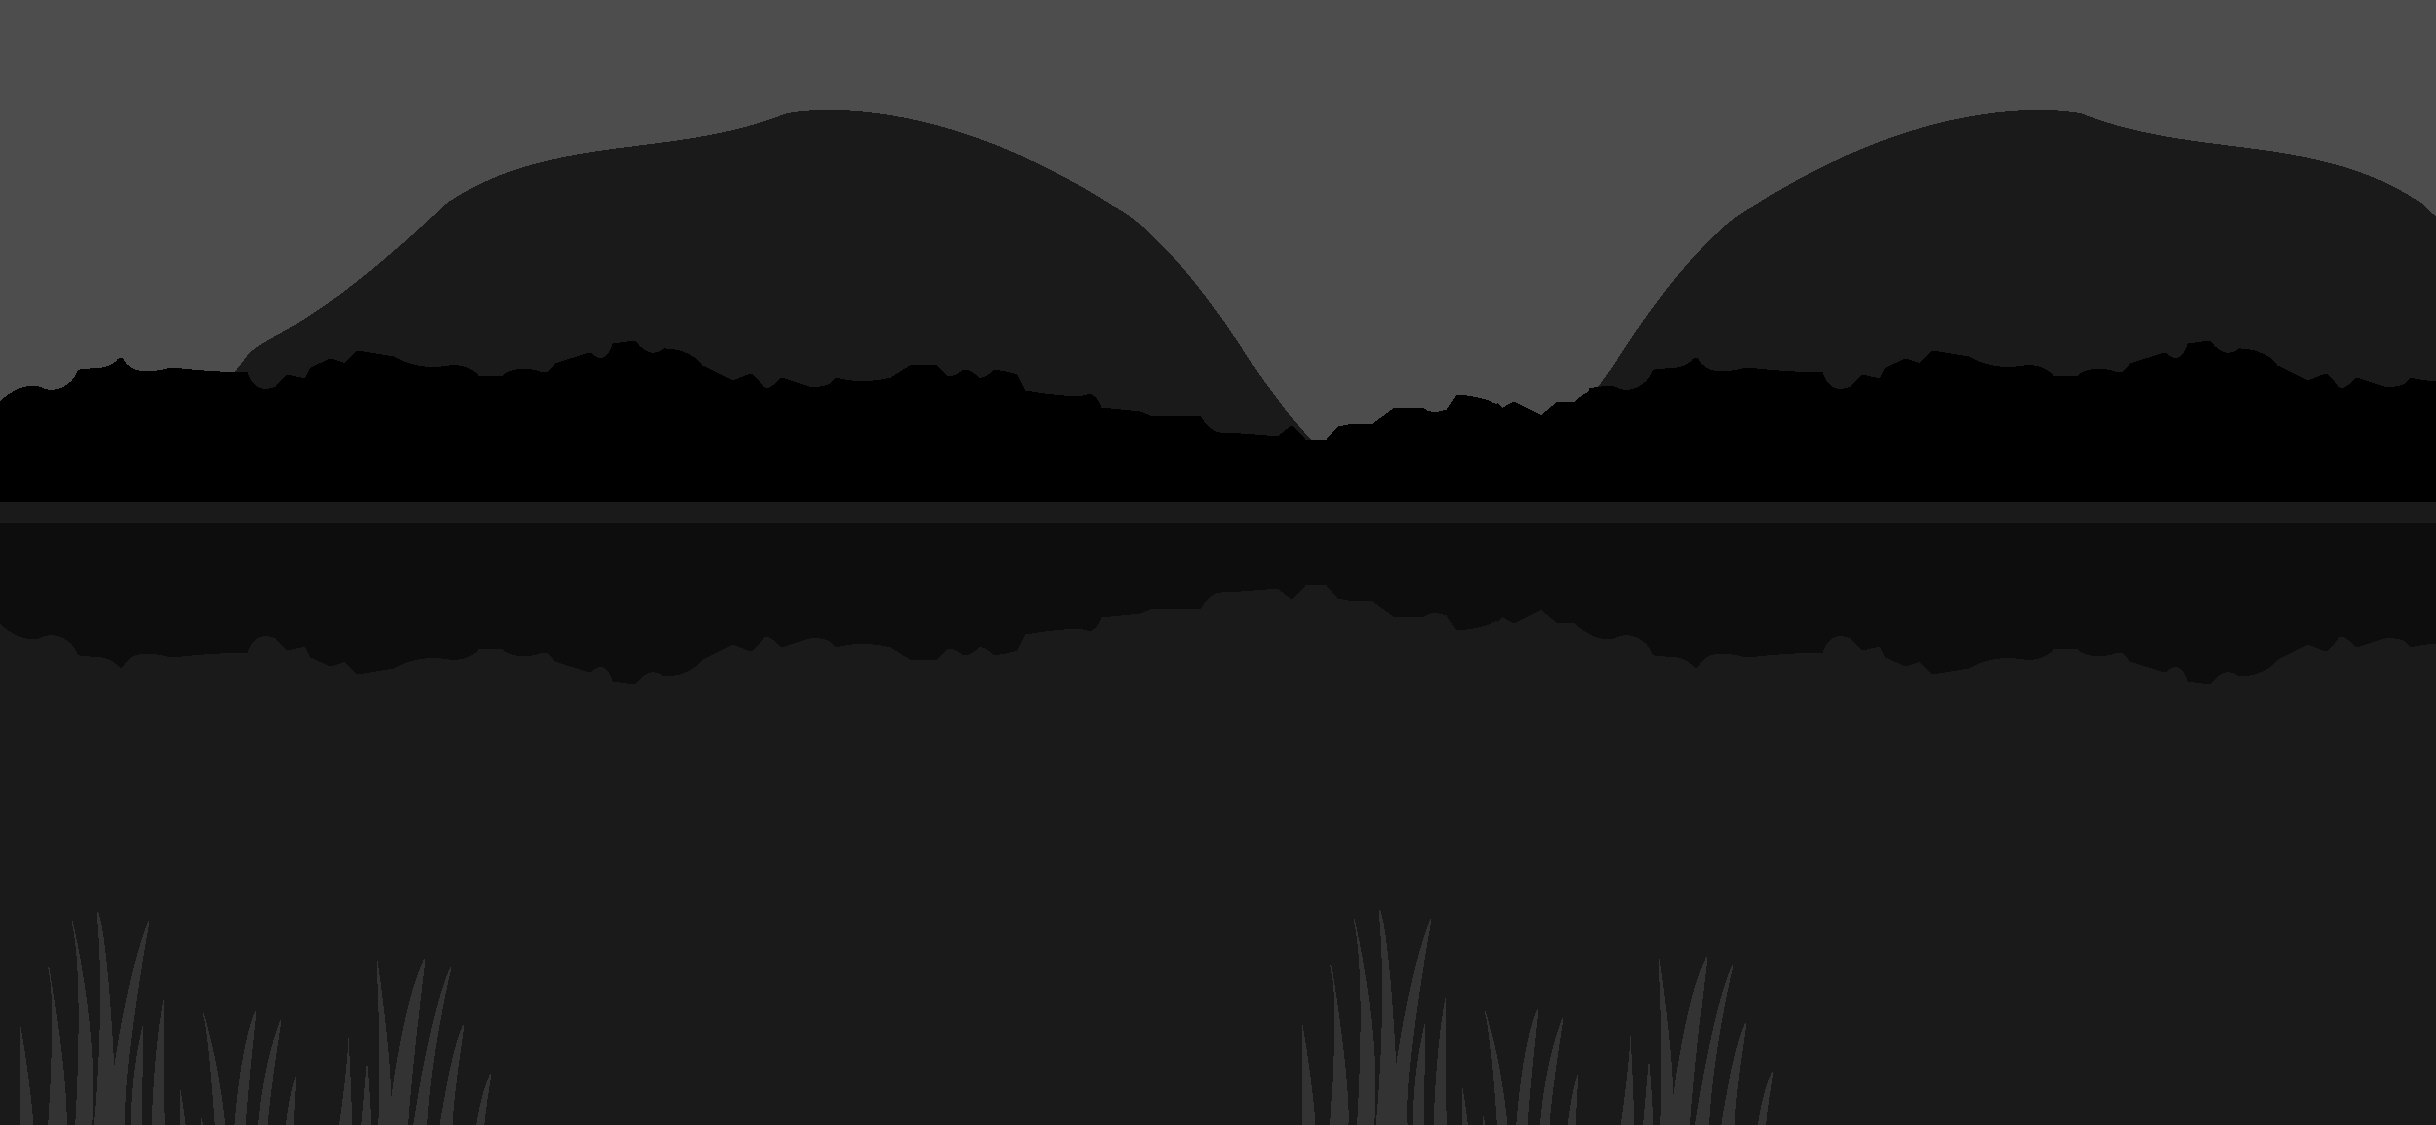
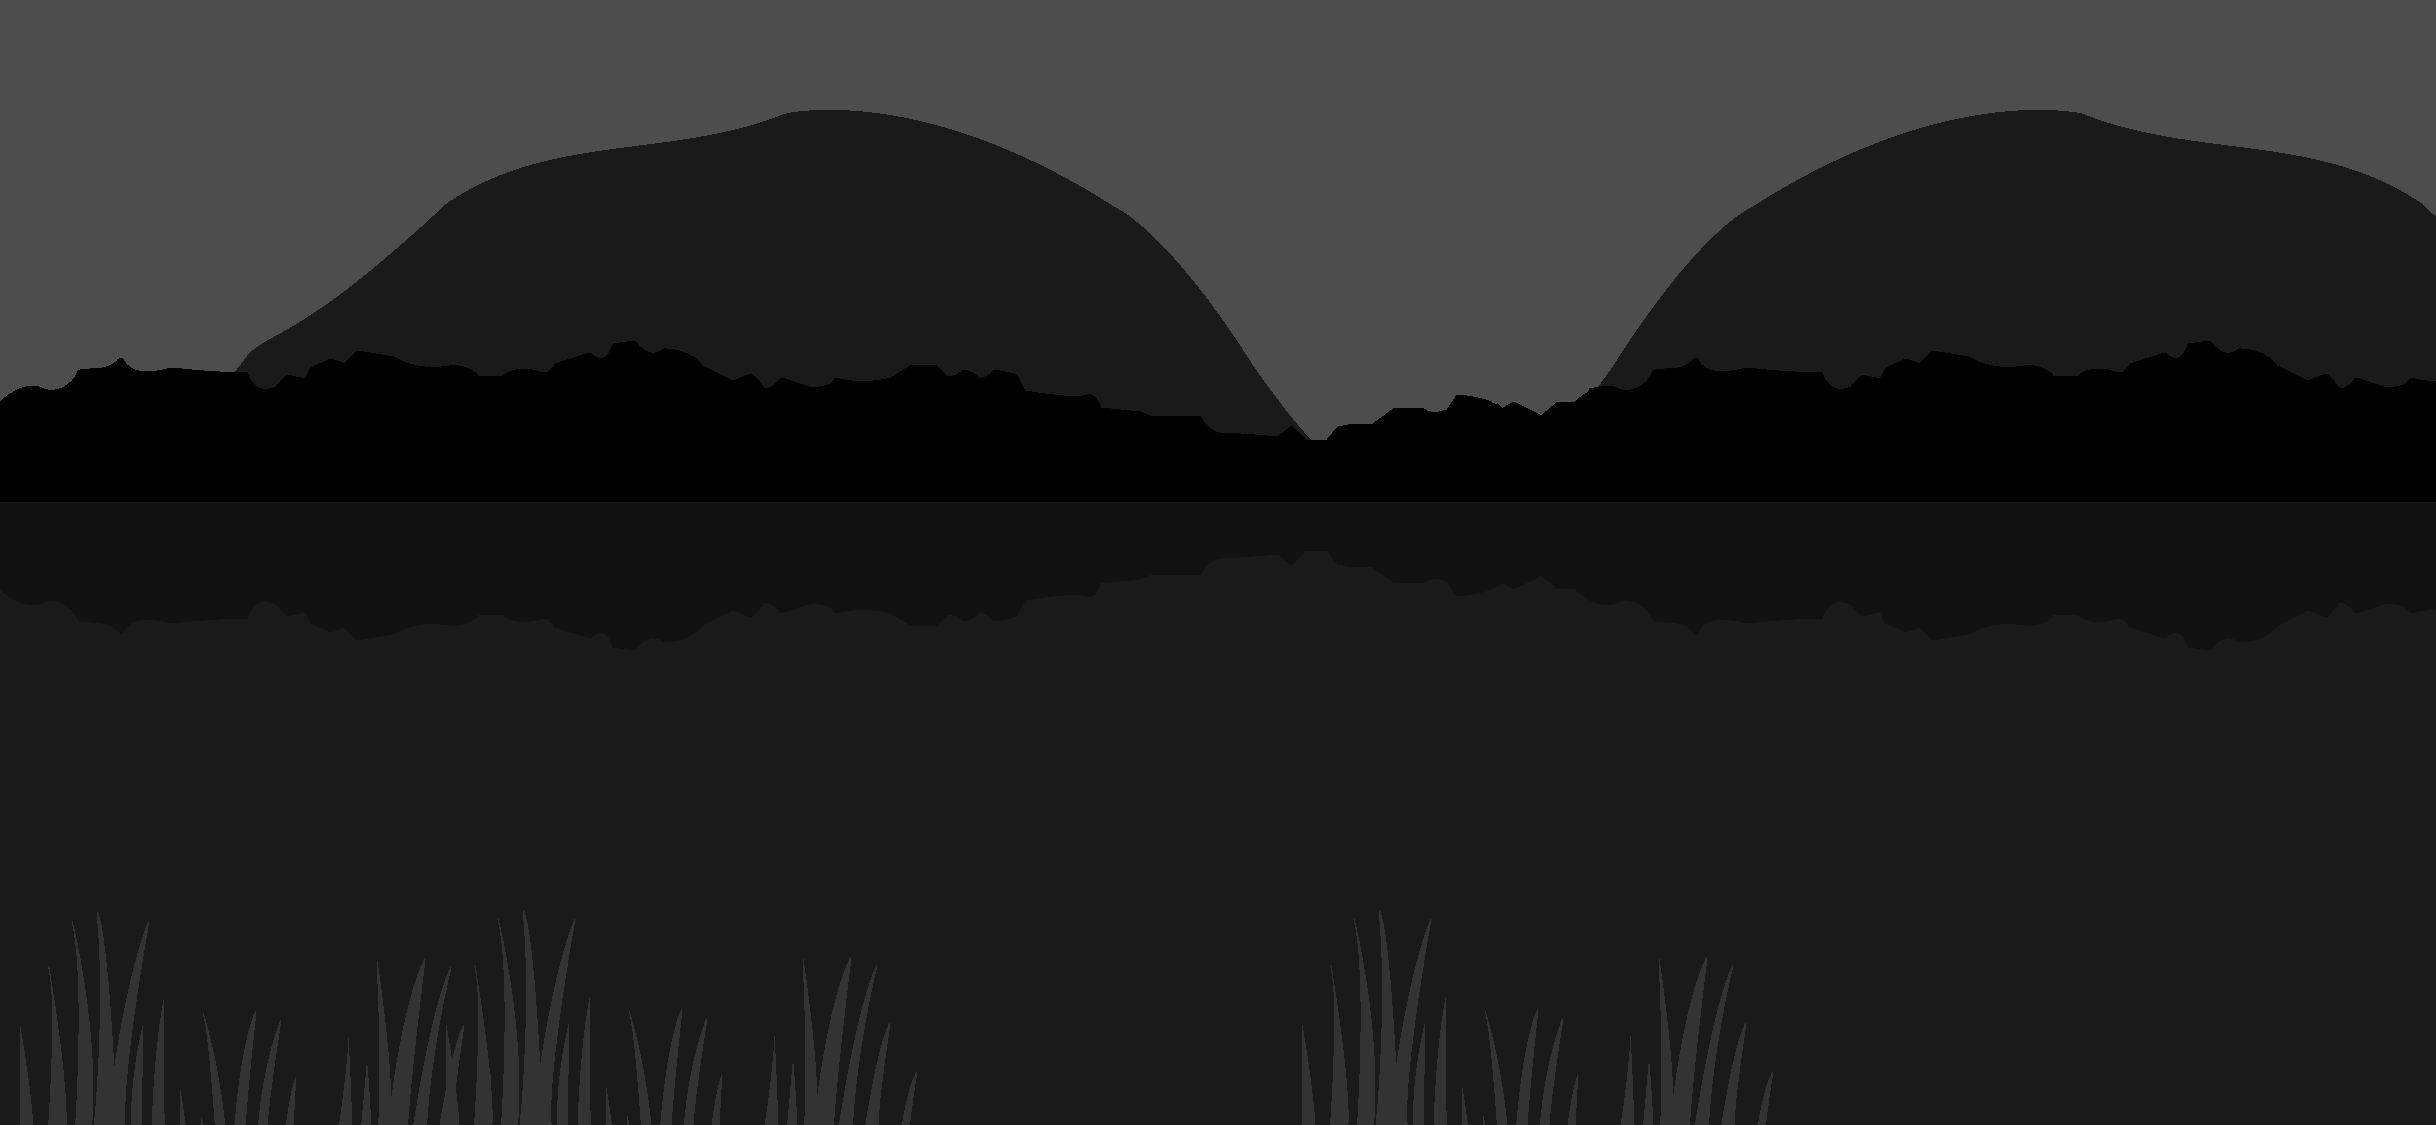
changed background image

Changed region(s): [[0.1872, 0.84, 0.3744, 1.0]]

diff --git a/lib/constants.dart b/lib/constants.dart
@@ -1,7 +1,10 @@
 const kiLeaf = 'assets/images/leaf.png';
 const kiLeaf2 = 'assets/images/leaf2.png';
 const kiFrog = 'assets/images/frog.png';
+const kiFrog2 = 'assets/images/frog2.png';
+const kiToad2 = 'assets/images/toad2.png';
 const kiToad = 'assets/images/toad.png';
 const kiBg1 = 'assets/images/bg1.png';
+const kiBg2 = 'assets/images/bg2.png';
 const nexusHeight = 411.42857142857144; // height of the emulator I worked with
 const nexusWidth = 731.4285714285714; //  same 

diff --git a/lib/pages/game_screen.dart b/lib/pages/game_screen.dart
@@ -25,7 +25,7 @@ class _GameScreenState extends State<GameScreen> {
         decoration: BoxDecoration(
           image: DecorationImage(
             image: FadeInImage(
-              image: AssetImage(kiBg1),
+              image: AssetImage(kiBg2),
               placeholder: MemoryImage(kTransparentImage),
             ).image,
             fit: BoxFit.fitHeight,

diff --git a/lib/components/tiles.dart b/lib/components/tiles.dart
@@ -73,7 +73,7 @@ class Tile extends StatelessWidget {
             //   borderRadius: BorderRadius.circular(20.0),
             // ),
             child: Image(
-              image: AssetImage(kiLeaf),
+              image: AssetImage(kiLeaf2),
             ),
           ),
           GestureDetector(
